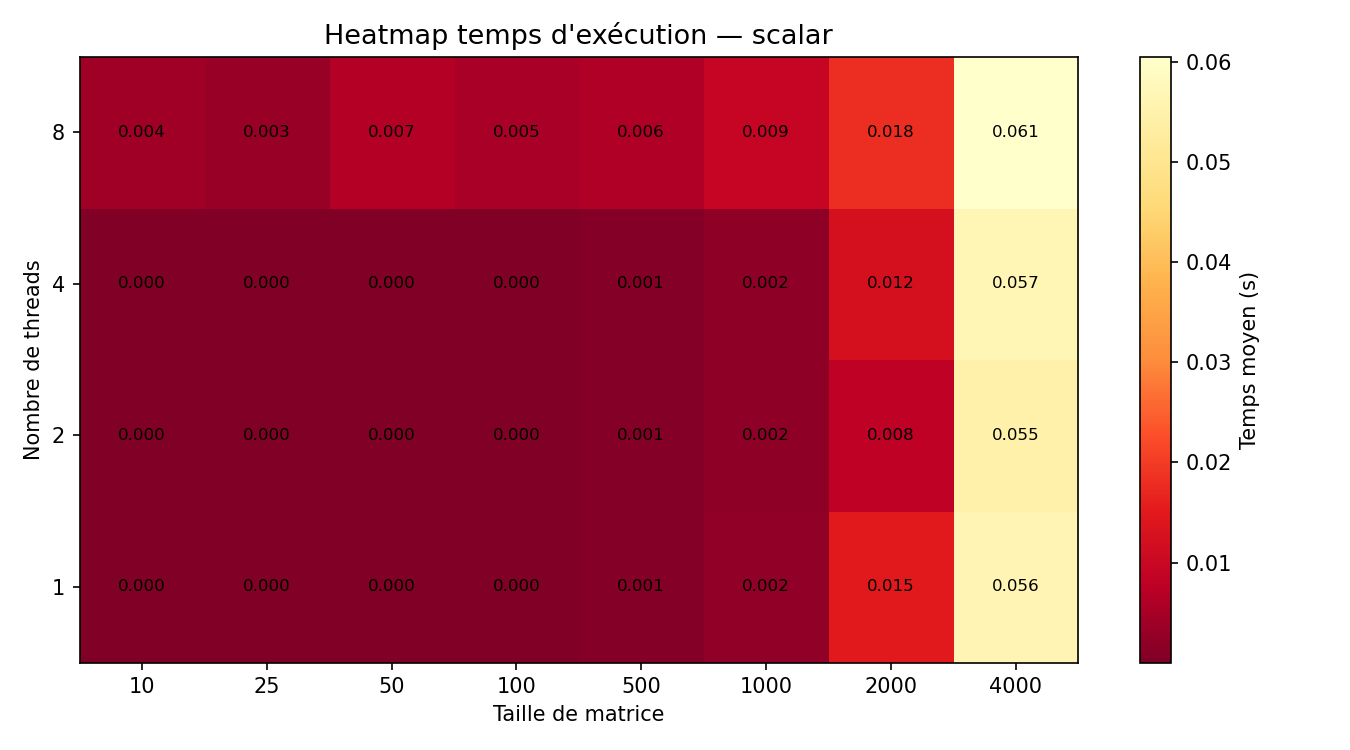
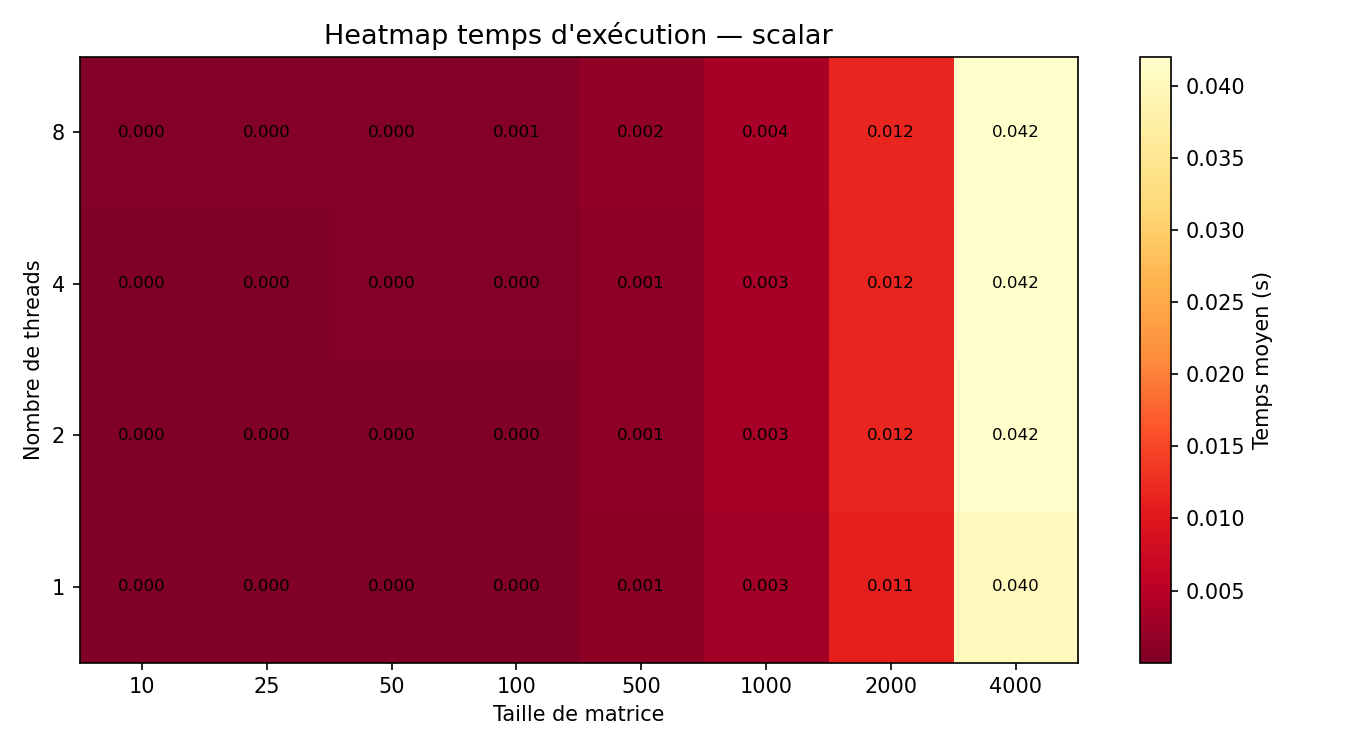
okay

diff --git a/project/src/matrix.cpp b/project/src/matrix.cpp
@@ -101,7 +101,7 @@ Matrix Matrix::operator-(const Matrix &other) const
     
     return result;
 }
-
+/*
 Matrix Matrix::operator*(const Matrix &other) const
 {
     
@@ -124,7 +124,8 @@ Matrix Matrix::operator*(const Matrix &other) const
     
     
 }
-/*
+*/
+
 Matrix Matrix::operator*(const Matrix &other) const
 {
     const int R = this->rows;
@@ -138,9 +139,9 @@ Matrix Matrix::operator*(const Matrix &other) const
     const double* __restrict__ BT  = otherT.data.data();
     double*       __restrict__ Res = result.data.data();
 
-    constexpr int TILE_I = 64;
-    constexpr int TILE_J = 64;
-    constexpr int TILE_K = 128;
+    constexpr int TILE_I = 32;
+    constexpr int TILE_J = 32;
+    constexpr int TILE_K = 64;
 
     #pragma omp parallel for schedule(static) num_threads(16) collapse(2)
     for (int ii = 0; ii < R; ii += TILE_I)
@@ -173,7 +174,7 @@ Matrix Matrix::operator*(const Matrix &other) const
 
     return result;
 }
-*/
+/**/
 Matrix Matrix::operator*(double scalar) const
 {
     Matrix result(0, 0);

diff --git a/project/plot_heatmap_speedup.py b/project/plot_heatmap_speedup.py
@@ -3,7 +3,7 @@ import matplotlib.pyplot as plt
 import numpy as np
 import os
 
-CSV_PATH = os.path.join(os.path.dirname(__file__), "csv", "mesures_perso_threads.csv")
+CSV_PATH = os.path.join(os.path.dirname(__file__), "csv", "mesures_perso_threads_on_server_previous_imp.csv")
 OUT_DIR  = os.path.join(os.path.dirname(__file__), "report", "pics")
 
 df = pd.read_csv(CSV_PATH, skipinitialspace=True)
